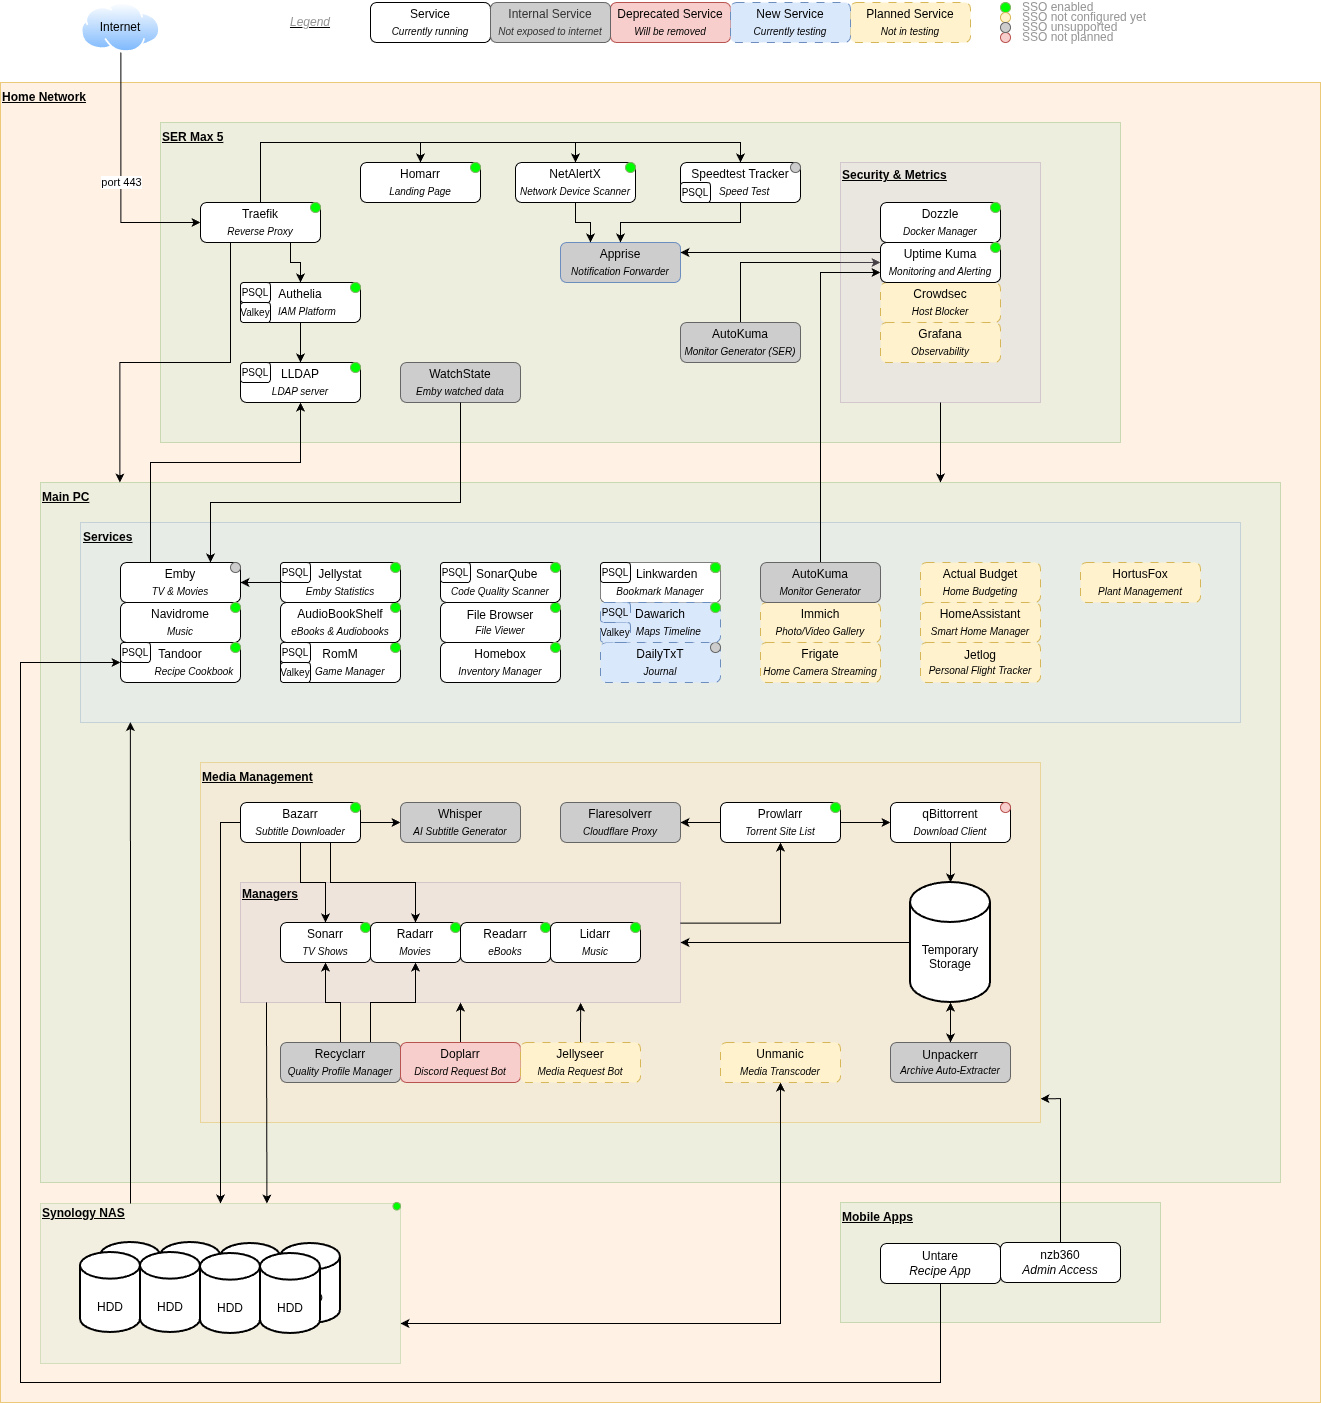
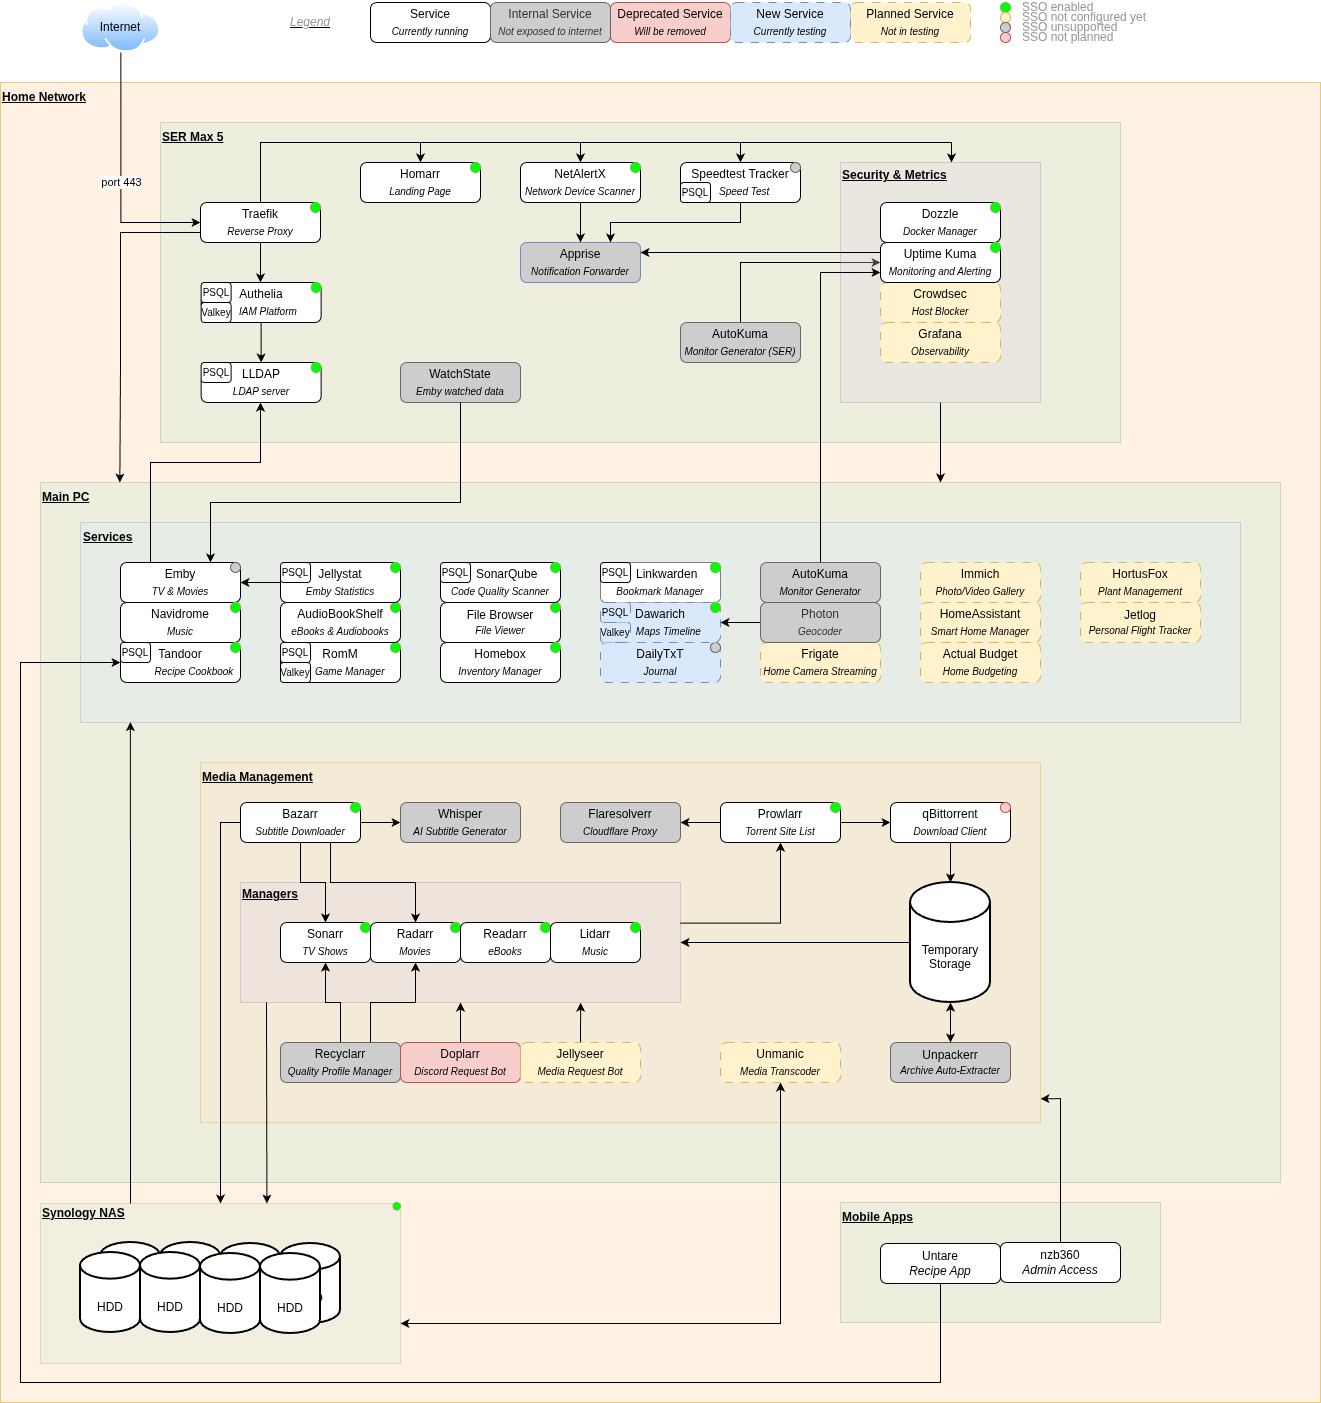
[Dawarich] Added service with Photon for reverse geocoding

diff --git a/README.md b/README.md
@@ -181,6 +181,26 @@ cat backup_authelia.sql | docker compose -f docker-compose-ser.yml exec -T authe
 docker compose -f docker-compose-ser.yml up --build -d authelia authelia-cache
 ```
 
+### Dawarich DB
+
+Take backup of the current database, then shut the Dawarich containers down:
+
+```bash
+docker compose exec dawarich-db pg_dump -U ${DAWARICH_DB_USER} -d ${DAWARICH_DB_NAME} -cC > backup_dawarich.sql
+docker compose down dawarich dawarich-sidekiq dawarich-cache dawarich-db photon
+```
+
+Upgrade the version of [PostgreSQL](https://registry.hub.docker.com/_/postgres) for `dawarich-db`.
+Next, delete the storage for `dawarich-db` (make sure to copy this directory/volume first).
+
+Finally, start up the new DB container, restore the backup, then start the remaining Authelia containers:
+
+```bash
+docker compose up --build -d dawarich-db --wait
+cat backup_dawarich.sql | docker compose exec -T dawarich-db psql -U ${AUTHELIA_DB_USER}
+docker compose up --build -d dawarich dawarich-sidekiq dawarich-cache photon 
+```
+
 ### Jellystat DB
 
 Take backup of the current database, then shut the Jellystat containers down:
